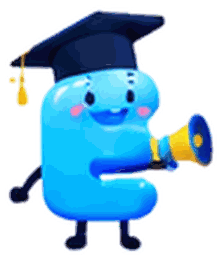
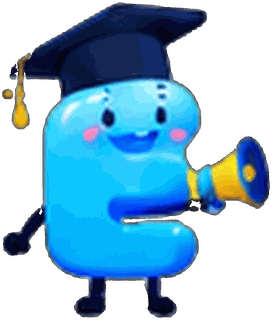
Replace all mascot references with final PNG
Use the user-approved mascot PNG everywhere, bust caches, remove legacy SVG mascot references from frontend code, and keep logo/data/collection logic unchanged.

diff --git a/app.js b/app.js
@@ -336,7 +336,7 @@ const homeHtml=()=>{
   const today=active.filter(r=>isToday(r.j.registered)).length;
   const latest=[...active].sort((a,b)=>b.registered-a.registered).slice(0,HOME_LIMIT);
   return `<section class="home-radar">
-    <div class="radar-top"><div><h2><span class="radar-heading-icon">${icon('radar')}</span>내 채용 레이더</h2><p>내 조건에 맞는 새로운 일자리를 찾아드려요!</p></div><div class="radar-mascot"><img src="assets/mascot.png?v=20260920a" width="70" height="70" alt="수도권에듀잡 마스코트" loading="lazy"><span>좋은 기회가<br>기다리고 있어요!</span></div></div>
+    <div class="radar-top"><div><h2><span class="radar-heading-icon">${icon('radar')}</span>내 채용 레이더</h2><p>내 조건에 맞는 새로운 일자리를 찾아드려요!</p></div><div class="radar-mascot"><img src="assets/mascot.png?v=20260920b" width="70" height="70" alt="수도권에듀잡 마스코트" loading="lazy"><span>좋은 기회가<br>기다리고 있어요!</span></div></div>
     <div class="metric-grid">
       <button class="metric" data-home="new"><span class="metric-icon">${icon('document')}</span><b>${p?snapshotNewCount(p):0}</b><strong>새 공고</strong><small>지난 방문 이후</small></button>
       <button class="metric" data-home="saved"><span class="metric-icon">${icon('heart')}</span><b>${favorites}</b><strong>관심 공고</strong><small>저장한 공고</small></button>
@@ -388,7 +388,7 @@ const radarHtml=()=>{
   const matches=p?profileMatches(p):[];
   if(state.radarTab==='matches'&&p)writeSnapshot(p);
   return `<section class="radar-page">
-    <div class="hero-row"><div class="hero-copy"><div class="hero-title-row"><button type="button" class="back-btn" data-go="home" aria-label="홈으로">←</button><h1>내 채용 레이더</h1></div><p>내가 원하는 조건에 맞는 공고를 자동으로 찾아드려요.</p></div><img src="assets/mascot.png?v=20260920a" width="76" height="64" alt="수도권에듀잡 마스코트" loading="lazy"></div>
+    <div class="hero-row"><div class="hero-copy"><div class="hero-title-row"><button type="button" class="back-btn" data-go="home" aria-label="홈으로">←</button><h1>내 채용 레이더</h1></div><p>내가 원하는 조건에 맞는 공고를 자동으로 찾아드려요.</p></div><img src="assets/mascot.png?v=20260920b" width="76" height="64" alt="수도권에듀잡 마스코트" loading="lazy"></div>
     <div class="segment-tabs"><button type="button" data-radar-tab="conditions" class="${state.radarTab==='conditions'?'active':''}">내 조건</button><button type="button" data-radar-tab="matches" class="${state.radarTab==='matches'?'active':''}">맞춤 공고</button></div>
     ${state.radarTab==='conditions'?
       `<div class="condition-card"><div class="condition-head"><strong>저장된 검색 조건 (${p?1:0})</strong><button type="button" data-go="search">＋ 새 조건 추가</button></div>
@@ -397,7 +397,7 @@ const radarHtml=()=>{
       :jobsListHtml(matches,state.visible,{emptyText:'저장 조건에 맞는 모집 중 공고가 없습니다.'})
     }
     <div class="alert-card"><div class="alert-copy">${icon('bell')}<div><strong>알림 설정</strong><p>새로운 공고가 등록되면 저장한 조건 기준으로 알려드립니다.</p></div></div><button type="button" class="switch ${a.enabled?'on':''}" id="alertToggle" aria-label="알림 ${a.enabled?'켜짐':'꺼짐'}"></button></div>
-    <div class="tip-card"><img src="assets/mascot.png?v=20260920a" width="72" height="66" alt="수도권에듀잡 마스코트" loading="lazy"><div><strong>내 조건에 딱 맞는<br>좋은 기회를 찾아드릴게요!</strong><p>✓ 새로운 공고 자동 확인<br>✓ 조건별 맞춤 알림<br>✓ 관심 공고와 쉽게 비교</p></div></div>
+    <div class="tip-card"><img src="assets/mascot.png?v=20260920b" width="72" height="66" alt="수도권에듀잡 마스코트" loading="lazy"><div><strong>내 조건에 딱 맞는<br>좋은 기회를 찾아드릴게요!</strong><p>✓ 새로운 공고 자동 확인<br>✓ 조건별 맞춤 알림<br>✓ 관심 공고와 쉽게 비교</p></div></div>
   </section>`;
 };
 
@@ -408,7 +408,7 @@ const savedHtml=()=>{
   const recent=recentRows().map(x=>recentMap.get(x.key)).filter(Boolean);
   const rows=state.savedTab==='saved'?savedRows:recent;
   return `<section class="saved-page"><div class="segment-tabs"><button type="button" data-saved-tab="saved" class="${state.savedTab==='saved'?'active':''}">저장한 공고 (${savedRows.length})</button><button type="button" data-saved-tab="recent" class="${state.savedTab==='recent'?'active':''}">최근 본 공고</button></div>
-  ${rows.length?jobsListHtml(rows,state.visible,{forceFavorite:state.savedTab==='saved'}):`<div class="empty-state saved-tip"><img src="assets/mascot.png?v=20260920a" width="76" height="68" alt="수도권에듀잡 마스코트" loading="lazy"><strong>${state.savedTab==='saved'?'관심 있는 공고를 저장하고 놓치지 마세요!':'최근 본 공고가 없습니다.'}</strong><p>${state.savedTab==='saved'?'✓ 중요한 공고 따로 관리<br>✓ 마감 임박 공고 다시 확인<br>✓ 내 채용 레이더와 함께 활용':'공고를 열어보면 최근 본 공고에 최대 50건까지 기록됩니다.'}</p><button type="button" class="empty-cta" data-go="search">공고 검색하러 가기</button></div>`}</section>`;
+  ${rows.length?jobsListHtml(rows,state.visible,{forceFavorite:state.savedTab==='saved'}):`<div class="empty-state saved-tip"><img src="assets/mascot.png?v=20260920b" width="76" height="68" alt="수도권에듀잡 마스코트" loading="lazy"><strong>${state.savedTab==='saved'?'관심 있는 공고를 저장하고 놓치지 마세요!':'최근 본 공고가 없습니다.'}</strong><p>${state.savedTab==='saved'?'✓ 중요한 공고 따로 관리<br>✓ 마감 임박 공고 다시 확인<br>✓ 내 채용 레이더와 함께 활용':'공고를 열어보면 최근 본 공고에 최대 50건까지 기록됩니다.'}</p><button type="button" class="empty-cta" data-go="search">공고 검색하러 가기</button></div>`}</section>`;
 };
 
 const meHtml=()=>{

diff --git a/edujob-final-ui.js b/edujob-final-ui.js
@@ -105,14 +105,14 @@
     const saved=p?1:0;
     const chips=p?[fmtValues('지역',p.regions),fmtValues('학교급',p.schools),fmtValues('직종',p.types),fmtValues('과목',p.subjects),p.q?`<span class="final-profile-chip"><b>검색</b> “${esc(p.q)}”</span>`:''].filter(Boolean).join(''):'';
     return `<section class="final-radar-manager" aria-label="내 채용 레이더 관리">
-      <div class="final-page-head"><div><div class="final-page-title-line"><button type="button" id="finalRadarBack" aria-label="홈으로 돌아가기">←</button><h2>내 채용 레이더</h2></div><p>내가 원하는 조건에 맞는 공고를 자동으로 찾아드려요.</p></div><img src="edujob-mascot.svg?v=20260919g" alt="" aria-hidden="true"></div>
+      <div class="final-page-head"><div><div class="final-page-title-line"><button type="button" id="finalRadarBack" aria-label="홈으로 돌아가기">←</button><h2>내 채용 레이더</h2></div><p>내가 원하는 조건에 맞는 공고를 자동으로 찾아드려요.</p></div><img src="assets/mascot.png?v=20260920b" alt="" aria-hidden="true"></div>
       <div class="final-segment"><button type="button" class="active">내 조건</button><button type="button" id="finalRadarMatched">맞춤 공고</button></div>
       <div class="final-manager-card">
         <div class="final-manager-title"><strong>저장된 검색 조건 (${saved})</strong><button type="button" id="finalAddCondition">＋ 새 조건 추가</button></div>
         ${p?`<div class="final-saved-condition"><div><strong>${esc(p.q||'저장한 채용 조건')}</strong><p>${chips||'저장한 조건을 불러와 사용할 수 있습니다.'}</p><em>새 공고 ${esc(newCount)}건 · 관심공고 ${favCount}건</em></div><button type="button" class="final-switch on" id="finalApplySaved" aria-label="저장 조건 불러오기"></button></div>`:`<div class="final-empty-condition"><strong>저장된 조건이 없습니다.</strong><p>공고검색에서 원하는 조건을 선택한 뒤 저장해 주세요.</p></div>`}
       </div>
       <div class="final-manager-card final-alert-setting"><div>${icon('bell')}<div><strong>알림 설정</strong><p>새로운 공고가 등록되면 바로 알려드릴게요.</p></div></div><button type="button" class="final-switch ${a.enabled?'on':''}" id="finalAlertToggle" aria-label="새 공고 알림 ${a.enabled?'켜짐':'꺼짐'}"></button></div>
-      <div class="final-radar-tip"><img src="edujob-mascot.svg?v=20260919g" alt="" aria-hidden="true"><div><strong>내 조건에 딱 맞는 좋은 기회를 찾아드릴게요!</strong><p>✓ 새로운 공고 자동 확인<br>✓ 조건별 맞춤 알림<br>✓ 관심 공고와 쉽게 비교</p></div></div>
+      <div class="final-radar-tip"><img src="assets/mascot.png?v=20260920b" alt="" aria-hidden="true"><div><strong>내 조건에 딱 맞는 좋은 기회를 찾아드릴게요!</strong><p>✓ 새로운 공고 자동 확인<br>✓ 조건별 맞춤 알림<br>✓ 관심 공고와 쉽게 비교</p></div></div>
     </section>`;
   }
 
@@ -173,7 +173,7 @@
   function homeRadarHtml(){
     const p=profile(), fav=favorites(), a=alerts();
     return `<section class="final-home-radar" aria-label="내 채용 레이더 요약">
-      <div class="final-home-radar-head"><div><h2>🎯 내 채용 레이더</h2><p>내 조건에 맞는 새로운 일자리를 찾아드려요!</p></div><div class="final-home-mascot"><img src="edujob-mascot.svg?v=20260919g" alt="" aria-hidden="true"><span>좋은 기회가<br>기다리고 있어요!</span></div></div>
+      <div class="final-home-radar-head"><div><h2>🎯 내 채용 레이더</h2><p>내 조건에 맞는 새로운 일자리를 찾아드려요!</p></div><div class="final-home-mascot"><img src="assets/mascot.png?v=20260920b" alt="" aria-hidden="true"><span>좋은 기회가<br>기다리고 있어요!</span></div></div>
       <div class="final-home-radar-metrics">
         <button type="button" data-home-radar="new"><span class="metric-icon blue">${icon('document')}</span><b>${esc(newCount())}</b><strong>새 공고</strong><small>지난 방문 이후</small></button>
         <button type="button" data-home-radar="favorites"><span class="metric-icon pink">${icon('heart')}</span><b>${fav.length}</b><strong>관심 공고</strong><small>저장한 공고</small></button>
@@ -277,7 +277,7 @@
     qs('#finalFavRecent',box)?.addEventListener('click',()=>{favoritesTab='recent';document.body.classList.add('final-recent-mode');installFavoritesChrome('recent')});
     document.body.classList.toggle('final-recent-mode',favoritesTab==='recent');
     let tip=qs('#finalFavoriteTip');
-    if(!tip){tip=document.createElement('div');tip.id='finalFavoriteTip';tip.className='final-view-panel final-favorite-tip';tip.innerHTML=`<img src="edujob-mascot.svg?v=20260919g" alt="" aria-hidden="true"><div><strong>관심 있는 공고를 저장하고 놓치지 마세요!</strong><p>✓ 중요한 공고 따로 관리<br>✓ 마감 임박 공고 확인<br>✓ 내 채용 레이더와 함께 활용</p></div>`;const layout=qs('.layout');layout?.insertAdjacentElement('afterend',tip)}
+    if(!tip){tip=document.createElement('div');tip.id='finalFavoriteTip';tip.className='final-view-panel final-favorite-tip';tip.innerHTML=`<img src="assets/mascot.png?v=20260920b" alt="" aria-hidden="true"><div><strong>관심 있는 공고를 저장하고 놓치지 마세요!</strong><p>✓ 중요한 공고 따로 관리<br>✓ 마감 임박 공고 확인<br>✓ 내 채용 레이더와 함께 활용</p></div>`;const layout=qs('.layout');layout?.insertAdjacentElement('afterend',tip)}
   }
 
   function installStatIcons(){

diff --git a/edujob-refresh.js b/edujob-refresh.js
@@ -96,7 +96,7 @@
       const wrap=document.createElement('div');
       wrap.className='radar-mascot-wrap';
       wrap.setAttribute('aria-hidden','true');
-      wrap.innerHTML='<span class="radar-speech">좋은 기회가<br>기다리고 있어요!</span><img class="radar-mascot" src="edujob-mascot.svg?v=20260919g" alt="">';
+      wrap.innerHTML='<span class="radar-speech">좋은 기회가<br>기다리고 있어요!</span><img class="radar-mascot" src="assets/mascot.png?v=20260920b" alt="">';
       radar.appendChild(wrap);
     }
     return true;

diff --git a/index.html b/index.html
@@ -51,7 +51,7 @@ $('#searchBtn').addEventListener('click',()=>{state.q=$('#q').value;render()});$
 <script src="job-radar.js?v=20260919a" defer></script>
 <script src="alert-config.js?v=20260918a" defer></script>
 <script src="alert-client.js?v=20260918a" defer></script>
-<script src="edujob-refresh.js?v=20260919g" defer></script>
-<script src="edujob-final-ui.js?v=20260919b" defer></script>
+<script src="edujob-refresh.js?v=20260920b" defer></script>
+<script src="edujob-final-ui.js?v=20260920b" defer></script>
 </body>
 </html>

diff --git a/app.html b/app.html
@@ -60,7 +60,7 @@
 
   <script src="user-store.js?v=20260919b" defer></script>
   <script src="alert-config.js?v=20260918a" defer></script>
-  <script src="app.js?v=20260920a" defer></script>
+  <script src="app.js?v=20260920b" defer></script>
   <script src="direct-link-guard.js?v=20260907c" defer></script>
   <script src="alert-client.js?v=20260918a" defer></script>
 </body>

diff --git a/tests/test_bright_brand_refresh.py b/tests/test_bright_brand_refresh.py
@@ -4,11 +4,11 @@ index = Path("index.html").read_text(encoding="utf-8")
 css = Path("edujob-refresh.css").read_text(encoding="utf-8")
 js = Path("edujob-refresh.js").read_text(encoding="utf-8")
 logo = Path("edujob-logo.svg").read_text(encoding="utf-8")
-mascot = Path("edujob-mascot.svg").read_text(encoding="utf-8")
+mascot_png = Path("assets/mascot.png")
 
 required_index = [
     "edujob-refresh.css?v=20260919g",
-    "edujob-refresh.js?v=20260919g",
+    "edujob-refresh.js?v=20260920b",
 ]
 for needle in required_index:
     if needle not in index:
@@ -29,7 +29,7 @@ for needle in required_css:
 required_js = [
     "학교·교육청",
     "학원·민간",
-    "edujob-mascot.svg",
+    "assets/mascot.png?v=20260920b",
     "radarAlertCard",
     "내 채용 레이더",
 ]
@@ -40,8 +40,10 @@ for needle in required_js:
 if "#03c75a" in css.lower():
     raise SystemExit("legacy NAVER green must not return in bright refresh")
 
-if "학사모 E 로고" not in logo or "E 마스코트" not in mascot:
-    raise SystemExit("brand SVG accessibility labels missing")
+if "학사모 E 로고" not in logo:
+    raise SystemExit("brand logo SVG accessibility label missing")
+if not mascot_png.exists() or mascot_png.stat().st_size < 10000:
+    raise SystemExit("final raster mascot asset missing or unexpectedly small")
 
 print("bright Edujob brand refresh contract verified")
 
@@ -86,8 +88,8 @@ for short in ['data-short="신규"', 'data-short="관심"', 'data-short="일치"
     if short not in radar:
         raise SystemExit(f"mobile radar short label missing: {short}")
 
-if "edujob-logo.svg?v=20260919g" not in js or "edujob-mascot.svg?v=20260919g" not in js:
-    raise SystemExit("brand SVG cache busting is required")
+if "edujob-logo.svg?v=20260919g" not in js or "assets/mascot.png?v=20260920b" not in js:
+    raise SystemExit("brand asset cache busting is required")
 
 print("mobile radar strip v5 and SVG cache-bust contract verified")
 
@@ -98,11 +100,8 @@ if "min-height:56px!important" not in css or "#statusHeading h2" not in css:
 if "M29 50 90 23l67 25-64 29z" not in logo:
     raise SystemExit("logo cap must be visibly oversized and worn")
 
-if "M72 73 150 38l90 33-86 39z" not in mascot:
-    raise SystemExit("mascot cap must be visibly oversized and worn")
-
-if "edujob-logo.svg?v=20260919g" not in js or "edujob-mascot.svg?v=20260919g" not in js:
-    raise SystemExit("v6 SVG cache busting missing")
+if "edujob-logo.svg?v=20260919g" not in js or "assets/mascot.png?v=20260920b" not in js:
+    raise SystemExit("v6 brand asset cache busting missing")
 
 print("stats compact v6 and oversized worn-cap contract verified")
 
@@ -116,7 +115,4 @@ if "min-height:50px!important" not in css:
 if 'translate(-8 -18) rotate(-4 91 58)' not in logo:
     raise SystemExit("logo cap offset must lightly overlap the E")
 
-if 'translate(-12 -22) rotate(-4 151 82)' not in mascot:
-    raise SystemExit("mascot cap offset must lightly overlap the E")
-
-print("one-row recruitment stats v7 and cap-offset contract verified")
+print("one-row recruitment stats v7 and raster mascot contract verified")

diff --git a/tests/test_app_frontend_contract.py b/tests/test_app_frontend_contract.py
@@ -120,3 +120,24 @@ if 'class="job-meta"' not in card_block:
     raise SystemExit("deadline/meta must share the same compact row")
 if card_block.find('class="job-deadline"') < card_block.find('class="job-meta"'):
     raise SystemExit("deadline must render inside the meta row")
+
+
+# Final mascot asset guards
+import hashlib
+for path in list(Path(".").rglob("*.html")) + list(Path(".").rglob("*.js")) + list(Path(".").rglob("*.css")):
+    try:
+        txt=path.read_text(encoding="utf-8")
+    except Exception:
+        continue
+    if "edujob-mascot.svg" in txt:
+        raise SystemExit(f"legacy mascot SVG reference remains in code: {path}")
+
+if "assets/mascot.png?v=20260920b" not in js:
+    raise SystemExit("canonical app must use the final mascot cache version")
+
+asset=Path("assets/mascot.png")
+if not asset.exists():
+    raise SystemExit("final mascot PNG is missing")
+digest=hashlib.sha256(asset.read_bytes()).hexdigest()
[1 lines of base64/hex data omitted]
+    raise SystemExit(f"unexpected mascot asset bytes: {digest}")
